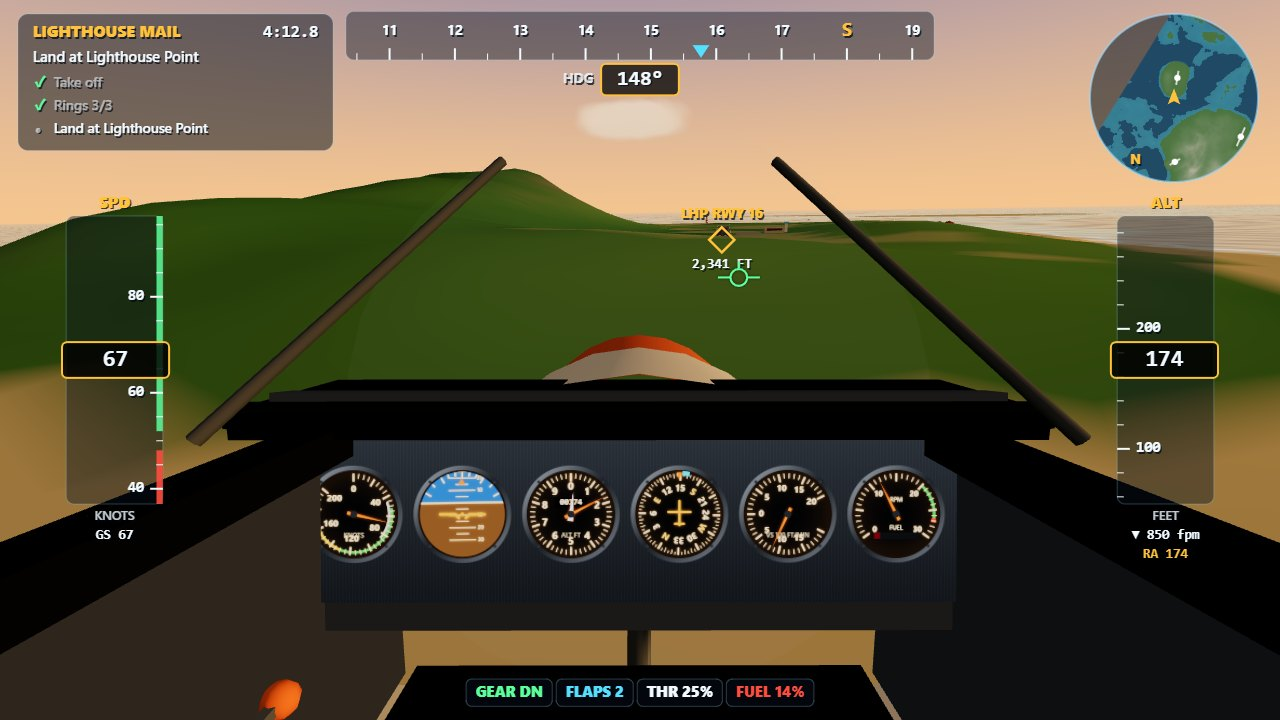
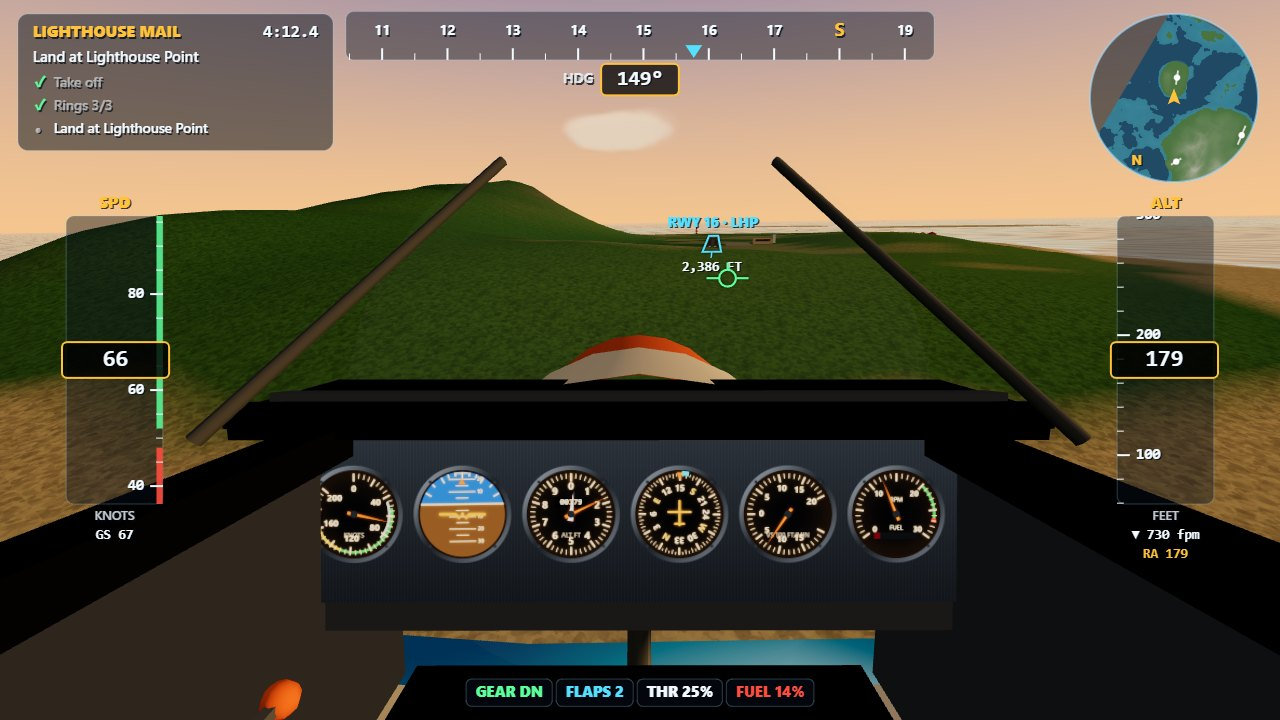
Auto-trim, bank-aware levelling, runway HUD box, terrain detail, Ridge Strip faces the sea

diff --git a/game/src/hud.js b/game/src/hud.js
@@ -81,13 +81,16 @@ export class Hud {
     const g = this.g;
     g.setTransform(this.dpr, 0, 0, this.dpr, 0, 0);
     const W = this.W, H = this.H;
-    const compact = W < 760;
+    const compact = W < 760 || H < 500;
+    const touch = document.body.classList.contains('touch');
     const scale = Math.max(0.72, Math.min(1.25, Math.min(W / 1280, H / 720) * 1.05));
     this.scale = scale;
+    if (s.runwayCue) this.runwayBox(s, camera, W, H, scale);
     if (s.showTargets) this.targets(s, camera, W, H, scale);
     this.flightPath(s, camera, W, H, scale);
     this.headingTape(s, W / 2, 34 * scale, Math.min(W * 0.46, 560 * scale), 46 * scale, scale);
-    const tapeH = Math.min(H * 0.4, 290 * scale), tapeY = H * 0.5;
+    const tapeH = touch ? Math.min(H * 0.3, 220 * scale) : Math.min(H * 0.4, 290 * scale);
+    const tapeY = touch ? H * 0.38 : H * 0.5;
     this.speedTape(s, 44 * scale + (compact ? 0 : 20), tapeY, 92 * scale, tapeH, scale);
     this.altTape(s, W - (44 * scale + (compact ? 0 : 20)) - 92 * scale, tapeY, 92 * scale, tapeH, scale);
     if (!compact) this.missionCard(s, 18, 14, scale);
@@ -203,6 +206,9 @@ export class Hud {
       _p.copy(s.target.pos).add(s.target.up).project(camera);
       const ty = Math.min(y - 18 * k, (-_p.y * 0.5 + 0.5) * H - 14 * k);
       this.text(`${s.target.label} · ${label}`, x, ty, 13 * k, CUE, 'center', 800);
+    } else if (onScreen && s.runwayCue) {
+      // the runway box already names the field; just give the distance to the threshold
+      this.text(label, x, y + 16 * k, 13 * k, INK, 'center', 700, MONO);
     } else if (onScreen) {
       g.strokeStyle = CUE; g.lineWidth = 2.5;
       const r = 12 * k;
@@ -219,6 +225,30 @@ export class Hud {
       g.restore();
       this.text(label, ex - Math.cos(a) * 30 * k, ey - Math.sin(a) * 26 * k, 12 * k, INK, 'center', 700, MONO);
     }
+  }
+
+  /** Outlines the destination runway in the HUD, like a synthetic-vision box, with its number. */
+  runwayBox(s, camera, W, H, k) {
+    const cue = s.runwayCue;
+    const pts = [];
+    for (const c of cue.corners) {
+      _p.copy(c).project(camera);
+      if (_p.z > 1) return;
+      pts.push([(_p.x * 0.5 + 0.5) * W, (-_p.y * 0.5 + 0.5) * H]);
+    }
+    const g = this.g;
+    g.save();
+    g.strokeStyle = CYAN; g.lineWidth = 2; g.shadowColor = 'rgba(0,0,0,0.6)'; g.shadowBlur = 3;
+    g.beginPath(); pts.forEach(([x, y], i) => (i ? g.lineTo(x, y) : g.moveTo(x, y))); g.closePath(); g.stroke();
+    // extended centreline toward the pilot
+    const nx = (pts[0][0] + pts[1][0]) / 2, ny = (pts[0][1] + pts[1][1]) / 2;
+    const fx = (pts[2][0] + pts[3][0]) / 2, fy = (pts[2][1] + pts[3][1]) / 2;
+    g.setLineDash([6, 6]); g.lineWidth = 1.5;
+    g.beginPath(); g.moveTo(nx, ny); g.lineTo(nx + (nx - fx) * 0.6, ny + (ny - fy) * 0.6); g.stroke();
+    g.restore();
+    const top = Math.min(...pts.map((p) => p[1]));
+    const cx = pts.reduce((a, p) => a + p[0], 0) / 4;
+    this.text(cue.label, cx, top - 12 * k, 13 * k, CYAN, 'center', 800);
   }
 
   missionCard(s, x, y, k) {

diff --git a/game/src/main.js b/game/src/main.js
@@ -1,7 +1,7 @@
 // Kestrel Isles: boots the world and runs the game loop, menus, sorties, landings and crashes.
 import * as THREE from 'three';
 import { initTerrain, buildTerrainMesh, buildSea, groundAt, meshHeightAt } from './terrain.js';
-import { buildAirfields, airfieldById, headingVector } from './airfields.js';
+import { buildAirfields, airfieldById, headingVector, runwayWorld, AIRFIELDS } from './airfields.js';
 import { buildScenery } from './scenery.js';
 import { Sky } from './sky.js';
 import { Aircraft } from './aircraft.js';
@@ -284,6 +284,19 @@ class Game {
     for (const id of ['harbor', 'ridge', 'light']) { const af = airfieldById(id); radarPoints.push({ x: af.x, z: af.z, color: '#ffffff', size: 3 }); }
     const velDir = fm.vel.lengthSq() > 1 ? fm.vel.clone().normalize() : new THREE.Vector3(0, 0, -1).applyQuaternion(fm.quat);
     const ftAgl = fm.agl * M_TO_FT;
+    let runwayCue = null;
+    if (this.mode === 'flying' && !fm.onGround) {
+      const next = r.mission ? r.mission.steps.slice(r.stepIndex).find((st) => st.type === 'land') : null;
+      const dist = (a) => Math.hypot(a.x - fm.pos.x, a.z - fm.pos.z);
+      const af = next ? airfieldById(next.field) : AIRFIELDS.reduce((b, a) => (dist(a) < dist(b) ? a : b));
+      if (dist(af) < 6000) {
+        const corners = [[-1, -1], [-1, 1], [1, 1], [1, -1]].map(([u, v]) => {
+          const p = runwayWorld(af, u * af.length / 2, v * af.width / 2);
+          return new THREE.Vector3(p.x, af.elevation + 0.3, p.z);
+        });
+        runwayCue = { corners, label: `RWY ${String(Math.round(af.heading / 10) % 36 || 36).padStart(2, '0')} · ${af.short}` };
+      }
+    }
     const sinking = fm.vs < -8 && ftAgl < 400 && !fm.onGround;
     return {
       kt: fm.airspeed * MS_TO_KT, gs: fm.groundSpeed * MS_TO_KT, ft: fm.pos.y * M_TO_FT - (fm.gearDown ? 5.6 : 2.4), aglFt: ftAgl,
@@ -291,7 +304,7 @@ class Game {
       throttle: c.throttle, flaps: fm.flaps, gearDown: fm.gearDown && this.aircraft.gearT > 0.98, gearMoving: this.aircraft.gearT > 0.02 && this.aircraft.gearT < 0.98,
       brake: c.brake, stall: fm.stall || (fm.alpha > 0.22 && !fm.onGround && fm.airspeed > 10), engineOn: fm.engineOn, overspeed: fm.airspeed > K7.vne, damage: fm.damage,
       pullUp: sinking, view: this.view, speed: fm.airspeed, pos: fm.pos, velDir, bug: bearing, bearing,
-      target, showTargets: this.mode === 'flying', missionName: this.mission ? this.mission.name : '', objective: r.mission ? r.objectiveText() : '',
+      target, runwayCue, showTargets: this.mode === 'flying', missionName: this.mission ? this.mission.name : '', objective: r.mission ? r.objectiveText() : '',
       objectives: r.mission ? r.checklist() : [], timer: r.mission && r.mission.par ? r.elapsed : null, radarPoints,
       hint: this.mode === 'flying' && this.flightTime < 9 && this.mission.start.onGround ? 'Hold Shift for full throttle · at 55 kt ease back on S to lift off\nC switches chase / cockpit view · drag the mouse to fly with it' : null,
     };

diff --git a/game/src/flightModel.js b/game/src/flightModel.js
@@ -38,6 +38,7 @@ export class FlightModel {
     this.onGround = false; this.stall = false; this.alpha = 0; this.beta = 0; this.gLoad = 1;
     this.airspeed = 0; this.agl = 0; this.groundSpeed = 0; this.vs = 0;
     this.gust = 0; this.time = 0;
+    this.trim = K7.trimAlpha;
   }
 
   /** Places the aircraft at (x, y, z) pointing along heading (deg), pitched by pitchDeg, at speed m/s. */
@@ -49,6 +50,7 @@ export class FlightModel {
     this.vel.copy(_f).multiplyScalar(speed);
     this.omega.set(0, 0, 0);
     this.rpm = speed > 0 ? 0.75 : 0.2;
+    this.trim = K7.trimAlpha;
   }
 
   forward(out) { return out.set(0, 0, -1).applyQuaternion(this.quat); }
@@ -125,11 +127,18 @@ export class FlightModel {
     _force.y -= k.mass * G;
     this.gLoad = lift / (k.mass * G);
 
+    // auto-trim: with the stick near centre the trim creeps toward level flight at the current speed
+    if (!this.onGround && qdyn > 150 && Math.abs(c.pitch) < 0.15) {
+      const loadFactor = 1 / Math.max(0.6, Math.cos(THREE.MathUtils.degToRad(this.bankDeg)));
+      const level = THREE.MathUtils.clamp((k.mass * G * loadFactor / (qdyn * k.wingArea * ge) - cl0) / k.clAlpha, -0.06, 0.2);
+      this.trim += (level - this.trim) * Math.min(1, dt * 0.4);
+    }
+
     // rotation: commanded rates, aerodynamic stability, damping
     const eff = THREE.MathUtils.clamp(qdyn / (0.5 * RHO * 48 * 48), 0.08, 1.35) * (1 - this.damage / 220);
     const R = k.rates;
     const tgt = _tmp.set(
-      c.pitch * R.pitch * eff - (this.onGround ? a * 0.8 : (a - k.trimAlpha) * 3.0) * eff,
+      c.pitch * R.pitch * eff - (this.onGround ? a * 0.8 : (a - this.trim) * 3.0) * eff,
       -c.yaw * R.yaw * eff - this.beta * 2.4 * eff,
       -c.roll * R.roll * eff,
     );

diff --git a/game/src/aircraft.js b/game/src/aircraft.js
@@ -28,6 +28,20 @@ function wingPanel(span, rootChord, tipChord, thick, side) {
   return g;
 }
 
+/** White registration letters on a transparent canvas. */
+function registrationTexture(text) {
+  const c = document.createElement('canvas');
+  c.width = 256; c.height = 64;
+  const g = c.getContext('2d');
+  g.font = 'bold 50px "Segoe UI", system-ui, sans-serif';
+  g.textAlign = 'center'; g.textBaseline = 'middle';
+  g.fillStyle = '#ffffff';
+  g.fillText(text, 128, 34);
+  const t = new THREE.CanvasTexture(c);
+  t.colorSpace = THREE.SRGBColorSpace;
+  return t;
+}
+
 /** A control surface hinged on its front edge, so rotating the returned pivot deflects it. */
 function hinged(geo, material, hingeAt) {
   const pivot = new THREE.Group();
@@ -153,6 +167,14 @@ export class Aircraft {
     this.strobe = new THREE.Mesh(new THREE.SphereGeometry(0.07, 6, 4), new THREE.MeshBasicMaterial({ color: 0xffffff }));
     this.strobe.position.set(0, 1.83, 4.0);
     this.exterior.add(stab, fin, rud.pivot, this.strobe);
+    // registration painted on both sides of the fin
+    const reg = registrationTexture('K7-ISL');
+    for (const side of [-1, 1]) {
+      const decal = new THREE.Mesh(new THREE.PlaneGeometry(1.0, 0.25), new THREE.MeshStandardMaterial({ map: reg, transparent: true, roughness: 0.5, polygonOffset: true, polygonOffsetFactor: -2 }));
+      decal.position.set(side * 0.052, 0.62, 3.72);
+      decal.rotation.y = side * Math.PI / 2;
+      this.exterior.add(decal);
+    }
 
     // landing gear: tricycle, retracting by scaling into the wells
     this.gear = new THREE.Group();

diff --git a/game/src/terrain.js b/game/src/terrain.js
@@ -144,10 +144,30 @@ export function buildTerrainMesh(segments = 320) {
     colors[i * 3] = col.r; colors[i * 3 + 1] = col.g; colors[i * 3 + 2] = col.b;
   }
   geo.setAttribute('color', new THREE.BufferAttribute(colors, 3));
-  const mat = new THREE.MeshLambertMaterial({ vertexColors: true });
+  const mat = new THREE.MeshLambertMaterial({ vertexColors: true, map: detailTexture() });
   const mesh = new THREE.Mesh(geo, mat);
   mesh.receiveShadow = true;
   return mesh;
+}
+
+/** A tiling grey speckle that breaks up the flat vertex colours close to the ground. */
+function detailTexture() {
+  const c = document.createElement('canvas');
+  c.width = c.height = 256;
+  const g = c.getContext('2d');
+  g.fillStyle = '#f2f2f2'; g.fillRect(0, 0, 256, 256);
+  for (let i = 0; i < 2600; i++) {
+    const v = 175 + Math.floor(Math.random() * 80);
+    g.fillStyle = `rgba(${v},${v},${v},0.55)`;
+    const s = 2 + Math.random() * 7;
+    g.beginPath(); g.ellipse(Math.random() * 256, Math.random() * 256, s, s * (0.4 + Math.random() * 0.6), Math.random() * 3, 0, Math.PI * 2); g.fill();
+  }
+  const tex = new THREE.CanvasTexture(c);
+  tex.wrapS = tex.wrapT = THREE.RepeatWrapping;
+  tex.repeat.set(WORLD_SIZE / 40, WORLD_SIZE / 40);
+  tex.anisotropy = 8;
+  tex.colorSpace = THREE.SRGBColorSpace;
+  return tex;
 }
 
 /** A depth map of the sea floor so the water shader can paint shallows and surf. */

diff --git a/game/src/missions.js b/game/src/missions.js
@@ -41,7 +41,7 @@ export function buildMissions() {
     {
       id: 'valley', name: 'Spine Valley Run', time: 'noon', tag: 'Time trial',
       brief: 'Thread the rings up the valley that splits the northern ridge, then put down on the short Ridge Strip.',
-      tips: 'Keep it low and fast through the gorge; bleed speed early — Ridge Strip is short and high.',
+      tips: 'Keep it low and fast through the gorge, then swing out over the sea and land south-west on the short Ridge Strip.',
       start: { x: valleyX(2700), z: 2700, y: 180, heading: 352, speed: 58 }, fuel: 0.7, wind: { from: 200, speed: 3 },
       steps: [
         { type: 'rings', points: [1500, 950, 400, -150, -700, -1200, -1700].map((z, i) => ring(valleyX(z) + Math.sin(i * 1.3) * 60, z, 55 + (i % 2) * 25, 20)) },
@@ -64,7 +64,7 @@ export function buildMissions() {
     {
       id: 'supply', name: 'Ridge Supply Drop', time: 'morning', tag: 'Mountain',
       brief: 'Haul spares from Lighthouse Point up to Ridge Strip, a short field on the mountain shelf.',
-      tips: 'Climb early: Ridge Strip sits on the shoulder of the range. Approach from the south-west, flaps 2.',
+      tips: 'Ridge Strip is short and backed by the range: come in from the sea to the north-east, flaps 2, and brake hard.',
       start: runwayStart('light'), fuel: 0.55, wind: { from: 30, speed: 5 },
       steps: [
         { type: 'takeoff' },

diff --git a/game/src/shots.js b/game/src/shots.js
@@ -25,7 +25,7 @@ const SETUPS = {
   approach(game) {
     game.launch('circuit');
     skipTo(game, 1, 5, 171.4);
-    placeOnApproach(game, 'harbor', -1520, -4, 78, 36, -1.5);
+    placeOnApproach(game, 'harbor', -1380, -3, 64, 36, -2);
     Object.assign(game.input.controls, { throttle: 0.28, flaps: 2, gearDown: true, pitch: -0.35 });
     game.fm.gearDown = true; game.aircraft.gearT = 1;
     game.fm.fuel *= 0.78;
@@ -47,7 +47,8 @@ const SETUPS = {
     const prev = game.rings.rings[2].pos;
     const dx = ring.x - prev.x, dz = ring.z - prev.z, d = Math.hypot(dx, dz);
     const hdg = (Math.atan2(dx, -dz) * 180 / Math.PI + 360) % 360;
-    game.fm.place(ring.x - dx / d * 260 + 14, ring.y + 6, ring.z - dz / d * 260, hdg + 4, 60, 0);
+    game.fm.place(ring.x - dx / d * 300 + 10, ring.y + 1, ring.z - dz / d * 300, hdg + 3, 60, 0);
+    game.fm.trim = 0.0;
     Object.assign(game.input.controls, { throttle: 0.8, roll: 0.06, pitch: 0.02, gearDown: false });
     game.fm.gearDown = false; game.aircraft.gearT = 0;
     game.setView('chase');

diff --git a/game/src/airfields.js b/game/src/airfields.js
@@ -9,7 +9,7 @@ export function headingVector(deg) {
 
 export const AIRFIELDS = [
   { id: 'harbor', name: 'Harbor Field', short: 'HBR', x: -650, z: 1750, heading: 352, length: 1100, width: 32, elevation: 7 },
-  { id: 'ridge', name: 'Ridge Strip', short: 'RDG', x: 1650, z: -1250, heading: 28, length: 640, width: 22, elevation: 0 },
+  { id: 'ridge', name: 'Ridge Strip', short: 'RDG', x: 1650, z: -1250, heading: 208, length: 640, width: 22, elevation: 0 },
   { id: 'light', name: 'Lighthouse Point', short: 'LHP', x: 3900, z: 2650, heading: 158, length: 760, width: 26, elevation: 14, blend: 700 },
 ];
 

diff --git a/game/src/cameraRig.js b/game/src/cameraRig.js
@@ -36,7 +36,7 @@ export class CameraRig {
       const k = this.first ? 1 : 1 - Math.exp(-dt * 3.2);
       this.frame.slerp(fm.quat, k);
       const speedPull = Math.min(1, fm.airspeed / 70);
-      const dist = 15 + speedPull * 3, height = 3.6;
+      const dist = 15 + speedPull * 3, height = 4.8;
       _v.set(0, height, dist).applyQuaternion(this.frame);
       // keep the camera above the ground and level-ish in pitch so the horizon stays readable
       const target = _w.copy(fm.pos).add(_v);
